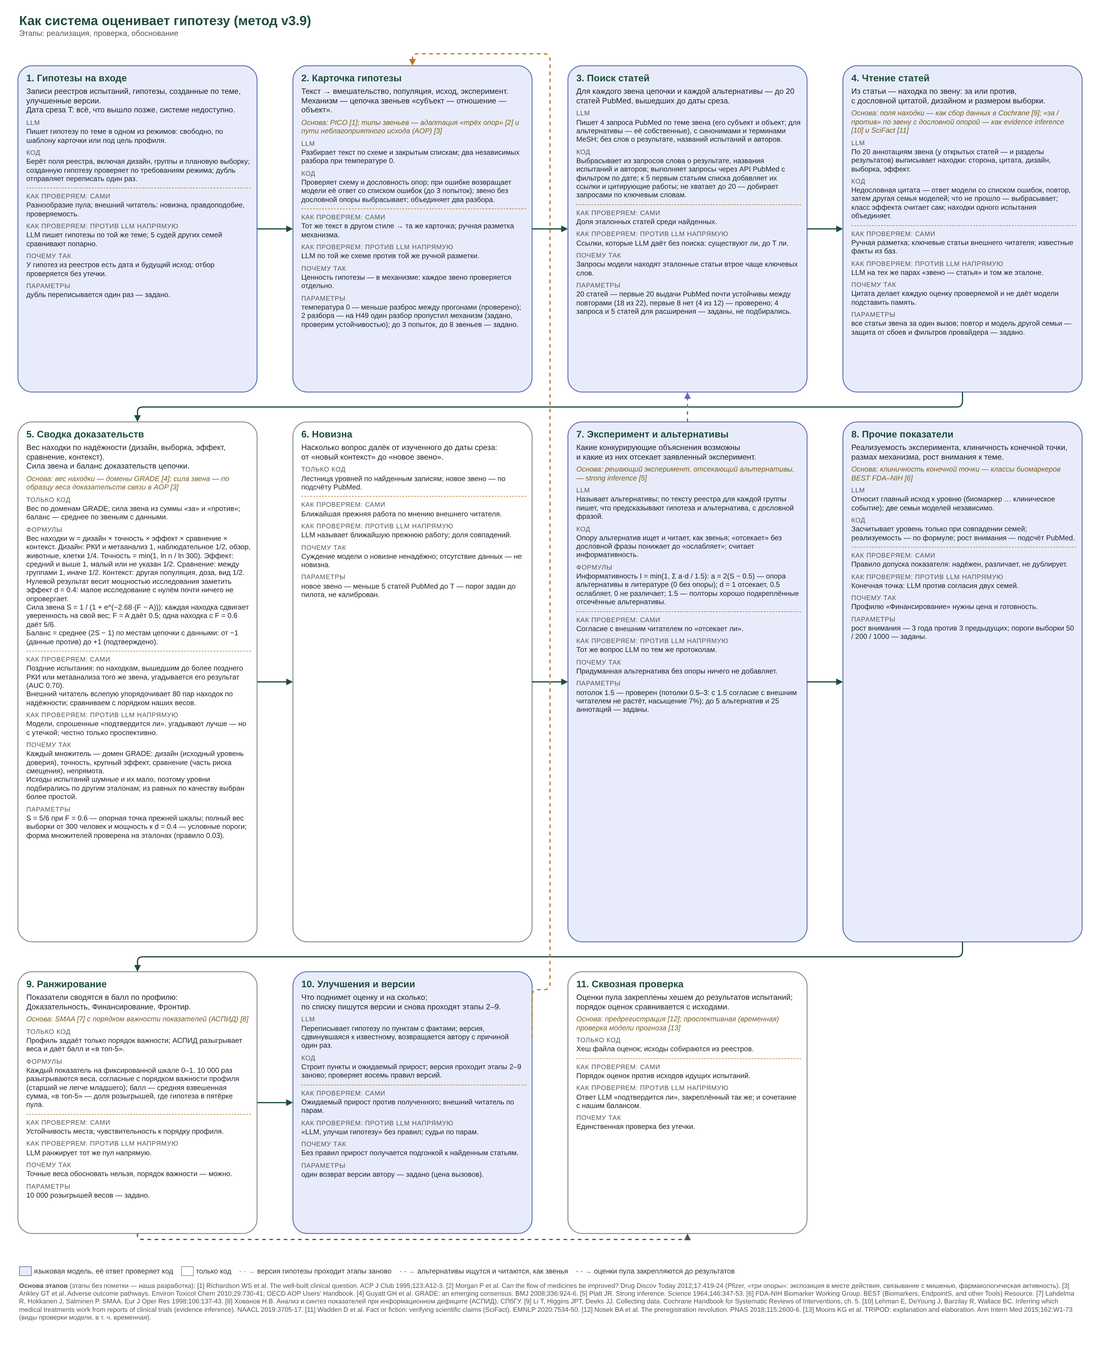
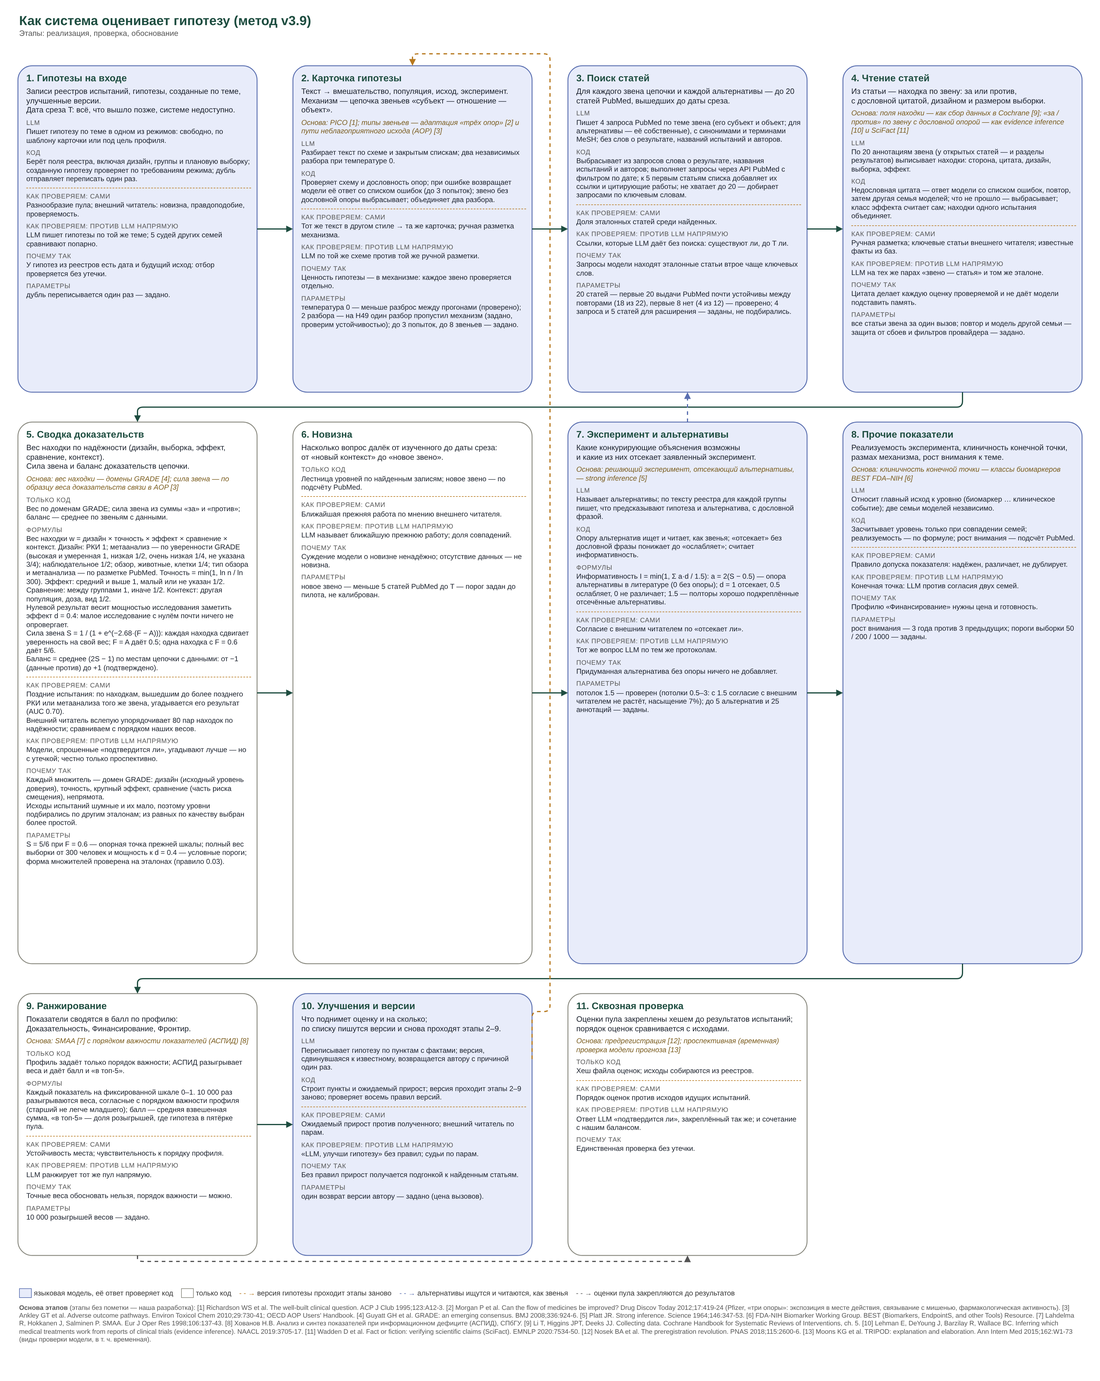
Record design from PubMed publication types (review kind kept); a meta-analysis weighs by its GRADE certainty from the abstract (high or moderate 1, low 1/2, very low 1/4, not reported 3/4); effect label shows the level used; manual sections 4, 5, 14; flow scheme formula; H49 walkthrough
Claude-Session: https://claude.ai/code/session_015QaY8wcM8f6FoFe6WxnTtU

diff --git a/docs/system/build_flow.py b/docs/system/build_flow.py
@@ -46,7 +46,7 @@ STAGES = [
          own=["Ручная разметка; ключевые статьи внешнего читателя; известные факты из баз."],
          base_llm=["LLM на тех же парах «звено — статья» и том же эталоне."],
          why=["Цитата делает каждую оценку проверяемой и не даёт модели подставить память."]),
-    dict(name="5. Сводка доказательств", formulas=['Вес находки w = дизайн × точность × эффект × сравнение × контекст. Дизайн: РКИ и метаанализ 1, наблюдательное 1/2, обзор, животные, клетки 1/4. Точность = min(1, ln n / ln 300). Эффект: средний и выше 1, малый или не указан 1/2. Сравнение: между группами 1, иначе 1/2. Контекст: другая популяция, доза, вид 1/2.', 'Нулевой результат весит мощностью исследования заметить эффект d = 0.4: малое исследование с нулём почти ничего не опровергает.', 'Сила звена S = 1 / (1 + e^(−2.68·(F − A))): каждая находка сдвигает уверенность на свой вес; F = A даёт 0.5; одна находка с F = 0.6 даёт 5/6.', 'Баланс = среднее (2S − 1) по местам цепочки с данными: от −1 (данные против) до +1 (подтверждено).'], params="S = 5/6 при F = 0.6 — опорная точка прежней шкалы; полный вес выборки от 300 человек и мощность к d = 0.4 — условные пороги; форма множителей проверена на эталонах (правило 0.03).", basis="вес находки — домены GRADE [4]; сила звена — по образцу веса доказательств связи в AOP [3]", kind="code",
+    dict(name="5. Сводка доказательств", formulas=['Вес находки w = дизайн × точность × эффект × сравнение × контекст. Дизайн: РКИ 1; метаанализ — по уверенности GRADE (высокая и умеренная 1, низкая 1/2, очень низкая 1/4, не указана 3/4); наблюдательное 1/2; обзор, животные, клетки 1/4; тип обзора и метаанализа — по разметке PubMed. Точность = min(1, ln n / ln 300). Эффект: средний и выше 1, малый или не указан 1/2. Сравнение: между группами 1, иначе 1/2. Контекст: другая популяция, доза, вид 1/2.', 'Нулевой результат весит мощностью исследования заметить эффект d = 0.4: малое исследование с нулём почти ничего не опровергает.', 'Сила звена S = 1 / (1 + e^(−2.68·(F − A))): каждая находка сдвигает уверенность на свой вес; F = A даёт 0.5; одна находка с F = 0.6 даёт 5/6.', 'Баланс = среднее (2S − 1) по местам цепочки с данными: от −1 (данные против) до +1 (подтверждено).'], params="S = 5/6 при F = 0.6 — опорная точка прежней шкалы; полный вес выборки от 300 человек и мощность к d = 0.4 — условные пороги; форма множителей проверена на эталонах (правило 0.03).", basis="вес находки — домены GRADE [4]; сила звена — по образцу веса доказательств связи в AOP [3]", kind="code",
          base=["Вес находки по надёжности (дизайн, выборка, эффект, сравнение, контекст).",
                "Сила звена и баланс доказательств цепочки."],
          code=["Вес по доменам GRADE; сила звена из суммы «за» и «против»; баланс — среднее по звеньям с данными."],

diff --git a/hyparena/card/rules_v32.py b/hyparena/card/rules_v32.py
@@ -151,6 +151,10 @@ EFFECT_FULL_FROM = 0.25 + 0.75 * 0.5 / 0.8      # the continuous effect weight o
 LOGLR_LAMBDA = 2 * math.atanh(2 / 3) / 0.6      # F = 0.6 alone gives s = 2/3, as c did for the Beta
 
 
+META_CERTAINTY = True     # 2026-11-11 (user decision): GRADE certainty of a meta-analysis scales its design weight
+from hyparena.card.review_kind import certainty_factor  # noqa: E402
+
+
 def record_weight_v36(rec: EvidenceRecord, claim: Claim, against: bool) -> float:
     """v3.6 (specs/record-weight-2026-11-08.yaml, user decision 2026-11-08): GRADE-shaped weight.
     design: on the outcome link of a human claim RCT and meta-analysis 1, non-randomised and observational 1/2, else 1/4
@@ -165,6 +169,8 @@ def record_weight_v36(rec: EvidenceRecord, claim: Claim, against: bool) -> float
     pre = claim.link in r3.PRECLINICAL_LINKS
     design = r3.record_design(rec)
     w = DESIGN_GRADE3.get(design, 0.25) if (r3.human_claim(claim) and not pre) else lv.design_weight(design, False)
+    if design == "meta_analysis" and META_CERTAINTY:      # 2026-11-11: a meta-analysis weighs by its GRADE certainty
+        w *= certainty_factor(rec.certainty)
     if against:
         w *= null_power(rec.n_total, rec.comparison)
     else:
@@ -243,12 +249,18 @@ def weight_factors(rec: EvidenceRecord, claim: Claim, against: bool, v34: bool =
     if V36:
         design = r3.record_design(rec)
         dw = DESIGN_GRADE3.get(design, 0.25) if (r3.human_claim(claim) and not pre) else lv.design_weight(design, False)
+        if design == "meta_analysis" and META_CERTAINTY:
+            dw *= certainty_factor(rec.certainty)
+            design = f"meta_analysis ({rec.certainty or 'certainty not reported'})"
         if against:
             prec, eff = ["power", null_power(rec.n_total, rec.comparison)], ["against", 1.0]
         else:
             prec = [rec.n_total, PRECLINICAL_PRECISION if pre else precision(rec.n_total)]
             full = effect_weight(rec, False) >= EFFECT_FULL_FROM - 1e-9
-            eff = [rec.effect_class if full else "small or not stated", 1.0 if full else 0.5]
+            # the label is the level that was used: an effect read from the phrase (SMD, ratio, CI) can be at least medium
+            # while the reader's class says "unclear" (H49 walkthrough 2026-11-11)
+            label = rec.effect_class if rec.effect_class in ("medium", "large") else "medium or large (from the phrase)"
+            eff = [label if full else "small or not stated", 1.0 if full else 0.5]
         return {"design": [design, dw], "precision": prec, "effect": eff,
                 "comparison": [comp, 1.0 if rec.comparison == "between_groups" else 0.5],
                 "context": [ctx, 0.5 if ctx == "adjacent" else 1.0]}

diff --git a/tests/test_review_kind.py b/tests/test_review_kind.py
@@ -1,0 +1,38 @@
+from hyparena.card.models import Claim, EvidenceRecord
+from hyparena.card import rules_v32 as r32
+from hyparena.card.review_kind import certainty_factor, certainty_from_abstract, design_from_pubtypes
+
+
+def test_design_follows_pubmed_publication_types():
+    assert design_from_pubtypes("review", ["Journal Article", "Meta-Analysis"]) == ("meta_analysis", "systematic")
+    assert design_from_pubtypes("review", ["Systematic Review"]) == ("review", "systematic")
+    assert design_from_pubtypes("rct", ["Review"]) == ("review", "narrative")
+    assert design_from_pubtypes("other", ["Randomized Controlled Trial"]) == ("rct", "")
+    assert design_from_pubtypes("rct", ["Journal Article"]) == ("rct", "")
+
+
+def test_grade_certainty_from_the_abstract_sets_the_meta_analysis_weight():
+    assert certainty_from_abstract("Moderate certainty evidence showed that resistance exercise ...") == "moderate"
+    assert certainty_from_abstract("very low quality of evidence (GRADE)") == "very_low"
+    assert certainty_from_abstract("no grading here") == ""
+    assert (certainty_factor("high"), certainty_factor("low"), certainty_factor("very_low"), certainty_factor("")) == (1.0, 0.5, 0.25, 0.75)
+
+
+def _rec(**k):
+    base = dict(source="PubMed", record_id="PMID:1", epistemic_type="A_text", study_type="review", lab_or_cohort="PMID:1",
+                quote="q", quote_role="finding", species="human", design="meta_analysis", n_total=1000,
+                comparison="between_groups", effect_reported="SMD = 0.9", effect_class="large")
+    base.update(k)
+    return EvidenceRecord(**base)
+
+
+def test_a_meta_analysis_weighs_by_its_certainty_on_the_outcome_link():
+    claim = Claim(id="c1", subject={"label": "x"}, relation="improves_healthspan_in", object={"label": "human"},
+                  qualifiers={"species": "human"}, role="outcome", link="outcome", source_span="x")
+    w_mod = r32.record_weight_v36(_rec(certainty="moderate"), claim, False)
+    w_none = r32.record_weight_v36(_rec(certainty=""), claim, False)
+    w_low = r32.record_weight_v36(_rec(certainty="low"), claim, False)
+    assert w_mod > w_none > w_low and abs(w_none / w_mod - 0.75) < 1e-9
+    with r32.method():                                   # the current rules (v3.6 and later), as the reports use them
+        f = r32.weight_factors(_rec(certainty="low"), claim, False)
+    assert f["design"] == ["meta_analysis (low)", 0.5]

diff --git a/hyparena/card/review_kind.py b/hyparena/card/review_kind.py
@@ -1,0 +1,45 @@
+"""Review kind and meta-analysis certainty by code (user decision 2026-11-11, H49 walkthrough stage 5).
+
+(a) The design of a record from PubMed's own publication types where they are decisive, not from the reader's guess:
+    Meta-Analysis -> meta_analysis; Systematic Review or Review -> review (kind kept: systematic / narrative); a
+    Randomized Controlled Trial the reader called a review or "other" -> rct. Weights are unchanged (a systematic review
+    without a pooled estimate still weighs as a review until a check says otherwise).
+(c) The certainty of a meta-analysis (GRADE) from its abstract by code; the design weight of a meta-analysis follows it:
+    high or moderate 1, low 1/2, very low 1/4, not reported 3/4 (specs/meta-and-nulls-2026-11-09.yaml, variant
+    "certainty": R2 0.697 and R3 0.582 against 0.702 and 0.593, inside the 0.03 rule; GRADE is GRADE's own rule).
+"""
+from __future__ import annotations
+
+import re
+from typing import Optional
+
+GRADE_RX = re.compile(r"(high|moderate|low|very[- ]low)[- ](certainty|quality)[^.]{0,40}(evidence|GRADE)|"
+                      r"GRADE[^.]{0,80}?\b(high|moderate|low|very[- ]low)\b", re.I)
+CERTAINTY_WEIGHT = {"high": 1.0, "moderate": 1.0, "low": 0.5, "very_low": 0.25}
+NOT_REPORTED = 0.75
+
+
+def certainty_from_abstract(text: str) -> str:
+    m = GRADE_RX.search(text or "")
+    if not m:
+        return ""
+    w = (m.group(1) or m.group(4) or "").lower().replace(" ", "_").replace("-", "_")
+    return w if w in CERTAINTY_WEIGHT else ""
+
+
+def certainty_factor(certainty: str) -> float:
+    return CERTAINTY_WEIGHT.get(certainty or "", NOT_REPORTED)
+
+
+def design_from_pubtypes(design: str, pubtypes: list[str]) -> tuple[str, str]:
+    """(design, review kind: systematic | narrative | '')."""
+    pt = {p.lower() for p in pubtypes or []}
+    if "meta-analysis" in pt:
+        return "meta_analysis", "systematic"
+    if "systematic review" in pt:
+        return "review", "systematic"
+    if "randomized controlled trial" in pt and design in ("review", "other", "unknown"):
+        return "rct", ""
+    if "review" in pt and design not in ("meta_analysis",):
+        return "review", "narrative"
+    return design, ""

diff --git a/hyparena/card/verifier.py b/hyparena/card/verifier.py
@@ -508,6 +508,11 @@ def verify_claim(client, family: str, avoid: frozenset, claim, card: HypothesisC
         if pubmed.is_retracted(a):
             rec.flags.append("retracted_pubmed")          # read by the v3.1 rules (section 12, point 7); v2 and v3 unchanged
         v3_fields(rec, r, a["title"] + " " + a["abstract"], review)
+        # 2026-11-11: PubMed's own publication types decide the review kind and a meta-analysis; its GRADE certainty by code
+        from hyparena.card.review_kind import certainty_from_abstract, design_from_pubtypes
+        rec.design, rec.review_kind = design_from_pubtypes(rec.design, a.get("pubtypes", []))
+        if rec.design == "meta_analysis":
+            rec.certainty = certainty_from_abstract(a["abstract"])
         if rec.qualifiers_match["intervention_match"] in ("exact", "dose_differs", "regimen_differs") and not names_in_source(
                 claim, card, a["title"], a["abstract"], quote):
             if subject_compounds(claim.subject.label, card):

diff --git a/hyparena/card/models.py b/hyparena/card/models.py
@@ -279,6 +279,8 @@ class EvidenceRecord(BaseModel):
     # v3 extraction, from the whole abstract (docs/archive/spec/method-v3.md, section 2); numbers are checked verbatim by code
     design: Literal["rct", "non_randomised", "observational", "animal", "cells", "review", "meta_analysis", "other",
                     "unknown"] = "unknown"
+    review_kind: str = ""                         # systematic | narrative, from PubMed publication types (2026-11-11)
+    certainty: str = ""                           # GRADE certainty of a meta-analysis from its abstract (2026-11-11)
     n_total: Optional[int] = None
     n_quote: str = ""                            # the verbatim phrase that gives n_total
     comparison: Literal["between_groups", "within_group", "none", "unknown"] = "unknown"

diff --git a/tests/test_manual.py b/tests/test_manual.py
@@ -53,6 +53,8 @@ def test_manual_v32_constants_and_profiles_equal_the_code():
     assert {k: p.tiers for k, (p, _) in aspid_v3.load().items()} == c["profiles"]
     from hyparena.card import novelty_v34 as nv
     assert c["v34"] == {"preclinical_precision": r32.PRECLINICAL_PRECISION, "novelty_levels": list(nv.LEVELS)}
+    from hyparena.card import review_kind as rk
+    assert c["meta_certainty"] == {**rk.CERTAINTY_WEIGHT, "not_reported": rk.NOT_REPORTED}
     from hyparena.card import v3_extra as vx                   # feasibility, written out after an outside report (2026-11-11)
     f = c["feasibility"]
     assert f["system"] == vx.SYSTEM_COST

diff --git a/docs/method-v3-manual.md b/docs/method-v3-manual.md
@@ -2,7 +2,8 @@
 
 Version: rules **v3.9** (2026-11-11) = v3.8 with the novelty level "new mechanism of a known effect" (section 7: the effect
 on the outcome was studied, but a link between supported neighbours is new by a PubMed count) and the card as the union of
-two parses (section 3). v3.8 (2026-11-11): a third
+two parses (section 3), the weight of a meta-analysis by its GRADE certainty and the design from PubMed's publication types
+(sections 4, 5; specs/meta-and-nulls-2026-11-09.yaml: R2 0.697 and R3 0.582 against 0.702 and 0.593, inside the 0.03 rule). v3.8 (2026-11-11): a third
 level of the intervention match, "same category only", counted as adjacent (reading rule 1, section 4). v3.7 (2026-11-09): the record weight of v3.6 on the GRADE domains (section 5), link strength as a sum
 of log likelihood ratios (section 6), the evidence balance over the links that have data (section 7), the ASPID profiles
 (section 8) and the rules every improved version keeps (section 11). Code: `hyparena/card/rules_v32.py`
@@ -136,7 +137,11 @@ returns records:
 
 - a verbatim quote (checked by code; a quote not in the abstract is dropped);
 - stance: supports / refutes / neither (only supports and refutes are scored);
-- from the whole abstract: `design` (rct, non_randomised, observational, animal, cells, review, meta_analysis, other),
+- from the whole abstract: `design` (rct, non_randomised, observational, animal, cells, review, meta_analysis, other;
+  since 2026-11-11 PubMed's own publication types decide where they are decisive: "Meta-Analysis" is a meta-analysis,
+  "Systematic Review" and "Review" are reviews with their kind kept (systematic / narrative), a "Randomized Controlled
+  Trial" the reader called a review is an RCT; `review_kind.design_from_pubtypes`; a meta-analysis also gets its GRADE
+  certainty from the abstract by code, `certainty_from_abstract`),
   `n_total` (only when stated as one number; group sizes are not summed; checked verbatim), `comparison` (between groups,
   within group, none), `effect_reported` (the verbatim phrase with the effect size);
 - `effect_class`, computed by code from the effect phrase (rule A):
@@ -207,7 +212,7 @@ level is in section 5a.
 
 | Factor (GRADE domain) | Levels |
 |---|---|
-| design (starting level), outcome link of a claim about humans | RCT and meta-analysis 1; non-randomised and observational 1/2; review, animal, cells, other 1/4 |
+| design (starting level), outcome link of a claim about humans | RCT 1; meta-analysis by its GRADE certainty (2026-11-11): high or moderate 1, low 1/2, very low 1/4, not reported 3/4; non-randomised and observational 1/2; review (systematic or narrative), animal, cells, other 1/4 |
 | design, links before the outcome or a claim about animals | cells 1/3, review 2/3, primary study 1 (unchanged) |
 | precision (imprecision) | record for: min(1, ln n / ln 300), at least 1/4, n unknown 1/4; before the outcome 1/2. Record against (a null): the power of its study to detect d = 0.4 (v3.5) |
 | effect (rating up for a large effect) | record for: a stated effect of at least medium size (d ≥ 0.5, ratio ≥ 1.25, ≥ 5%, the authors' "moderate") 1; small, none or not stated 1/2. Record against: 1 |
@@ -840,6 +845,7 @@ v36:
   loglr_lambda: 2.682397     # 2 atanh(2/3) / 0.6
   design_grade3: {rct: 1.0, meta_analysis: 1.0, non_randomised: 0.5, observational: 0.5, other: 0.25}
   effect_full_from: 0.71875  # the continuous effect weight of d = 0.5
+meta_certainty: {high: 1.0, moderate: 1.0, low: 0.5, very_low: 0.25, not_reported: 0.75}   # 2026-11-11
 v34:
   preclinical_precision: 0.5
   novelty_levels: [new_context, translation, analog, new_mechanism, new_combination, new_link]

diff --git a/docs/walkthrough/H49.md b/docs/walkthrough/H49.md
@@ -232,3 +232,16 @@ benefi-, prevent-, …), если их нет в самой карточке, и
 | Одни и те же статьи на c1 и c3 | кандидат C2 (у Codex) |
 | S насыщается: 7 находок и 2 находки дают одинаковые 1.00 | так задумано (баланс — состояние знания), но разница «много» / «мало» видна только в F |
 | В отчёте у метаанализа 39405023 эффект «unclear», а множитель эффекта 1.0 | несогласованность подписи и расчёта — проверить код класса эффекта |
+
+**Решения по этапу 5 (2026-11-11):**
+- (а) тип обзора и метаанализа — по разметке PubMed кодом (`review_kind.design_from_pubtypes`); вес систематического обзора
+  пока как у обзора — отличать по весу только после проверки на эталонах;
+- (в) метаанализ весит по своей уверенности GRADE из аннотации (высокая и умеренная 1, низкая 1/2, очень низкая 1/4, не
+  указана 3/4; проверка 2026-11-09 — в пределах правила 0.03); мануал разделы 4, 5, 14;
+- (б) обзор как указатель на первичные статьи и двойной счёт метаанализа — в backlog;
+- подпись эффекта в отчёте теперь показывает уровень, который пошёл в расчёт («средний или крупный (по фразе)»);
+- F рядом с S в оценке звеньев уже есть (столбец «F / A»);
+- фразы обзоров без данных: читатель помечает их как «фон», и они не считаются (`usable`: только находки); в сохранённом
+  прогоне H49 они были в сырых записях, но в отчёт не вошли. Пункт backlog остаётся для проверки, как часто модель
+  называет такую фразу находкой.
+- Открыто: пустые звенья внутри места параллельных исходов; главный исход при ничьей.
